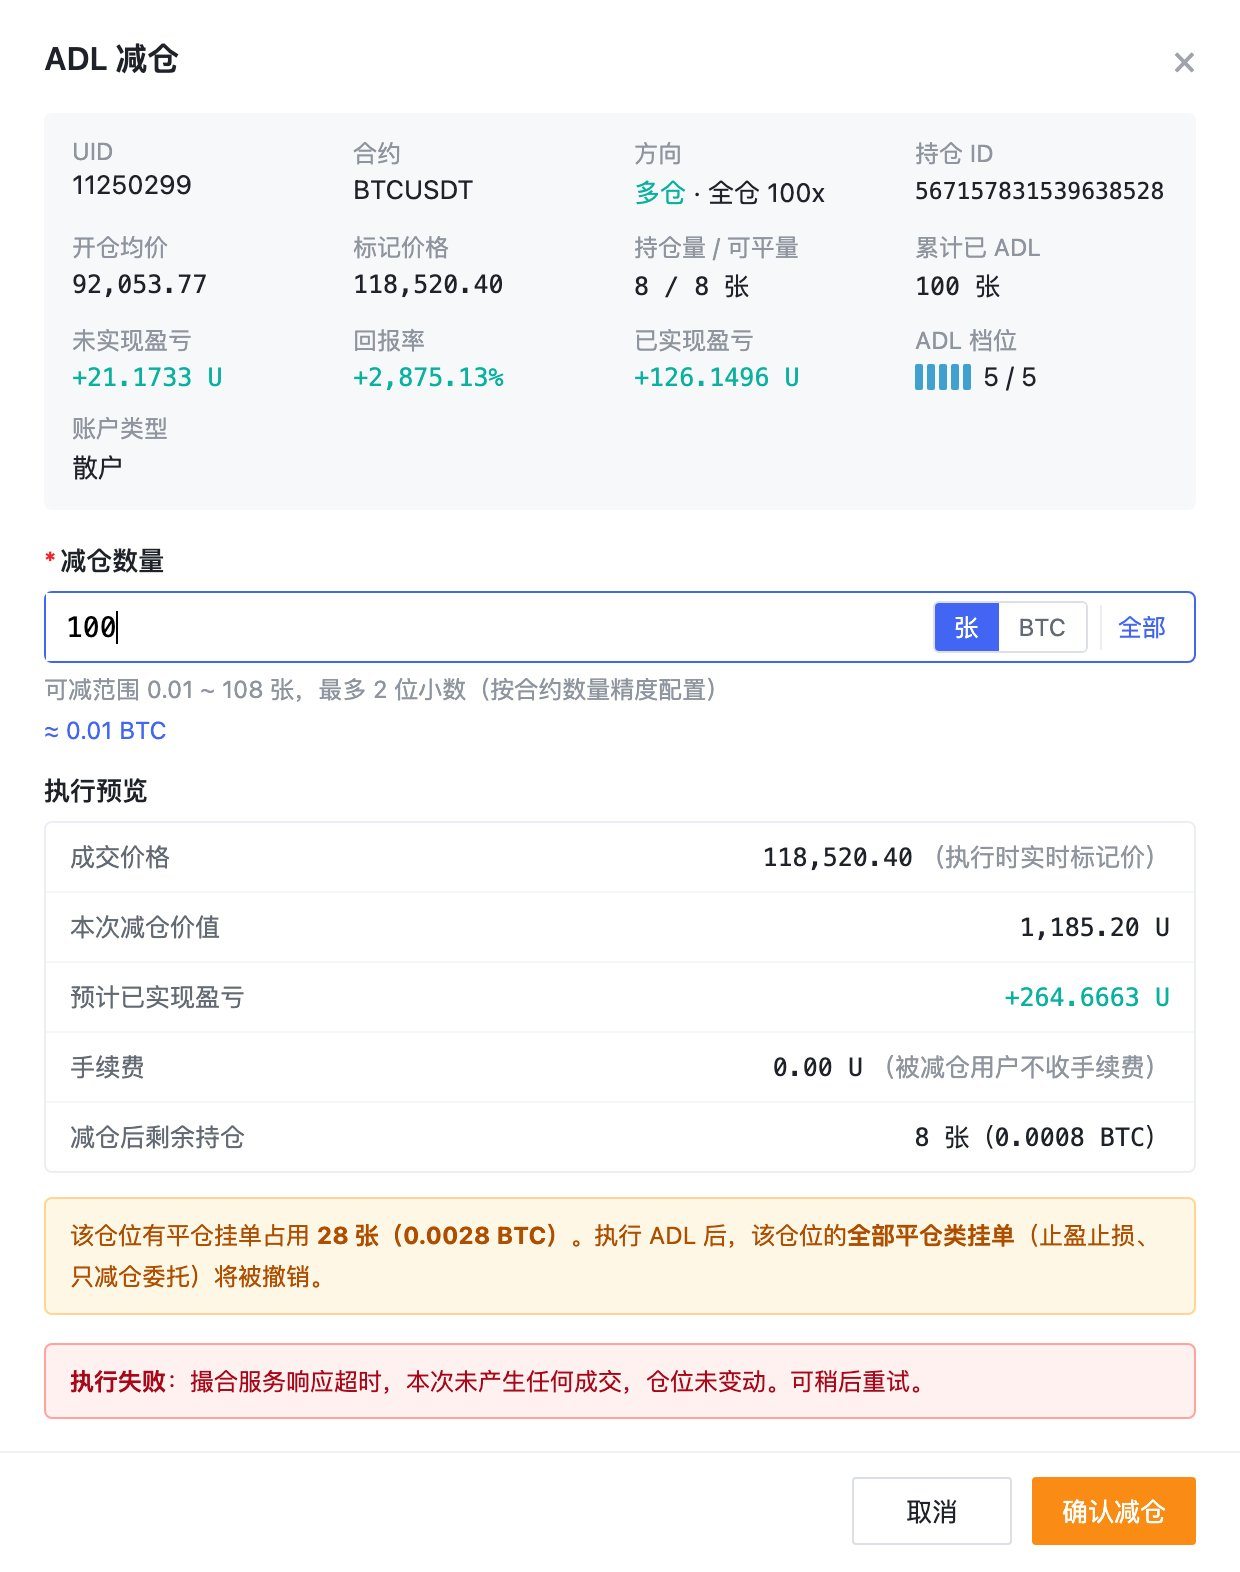
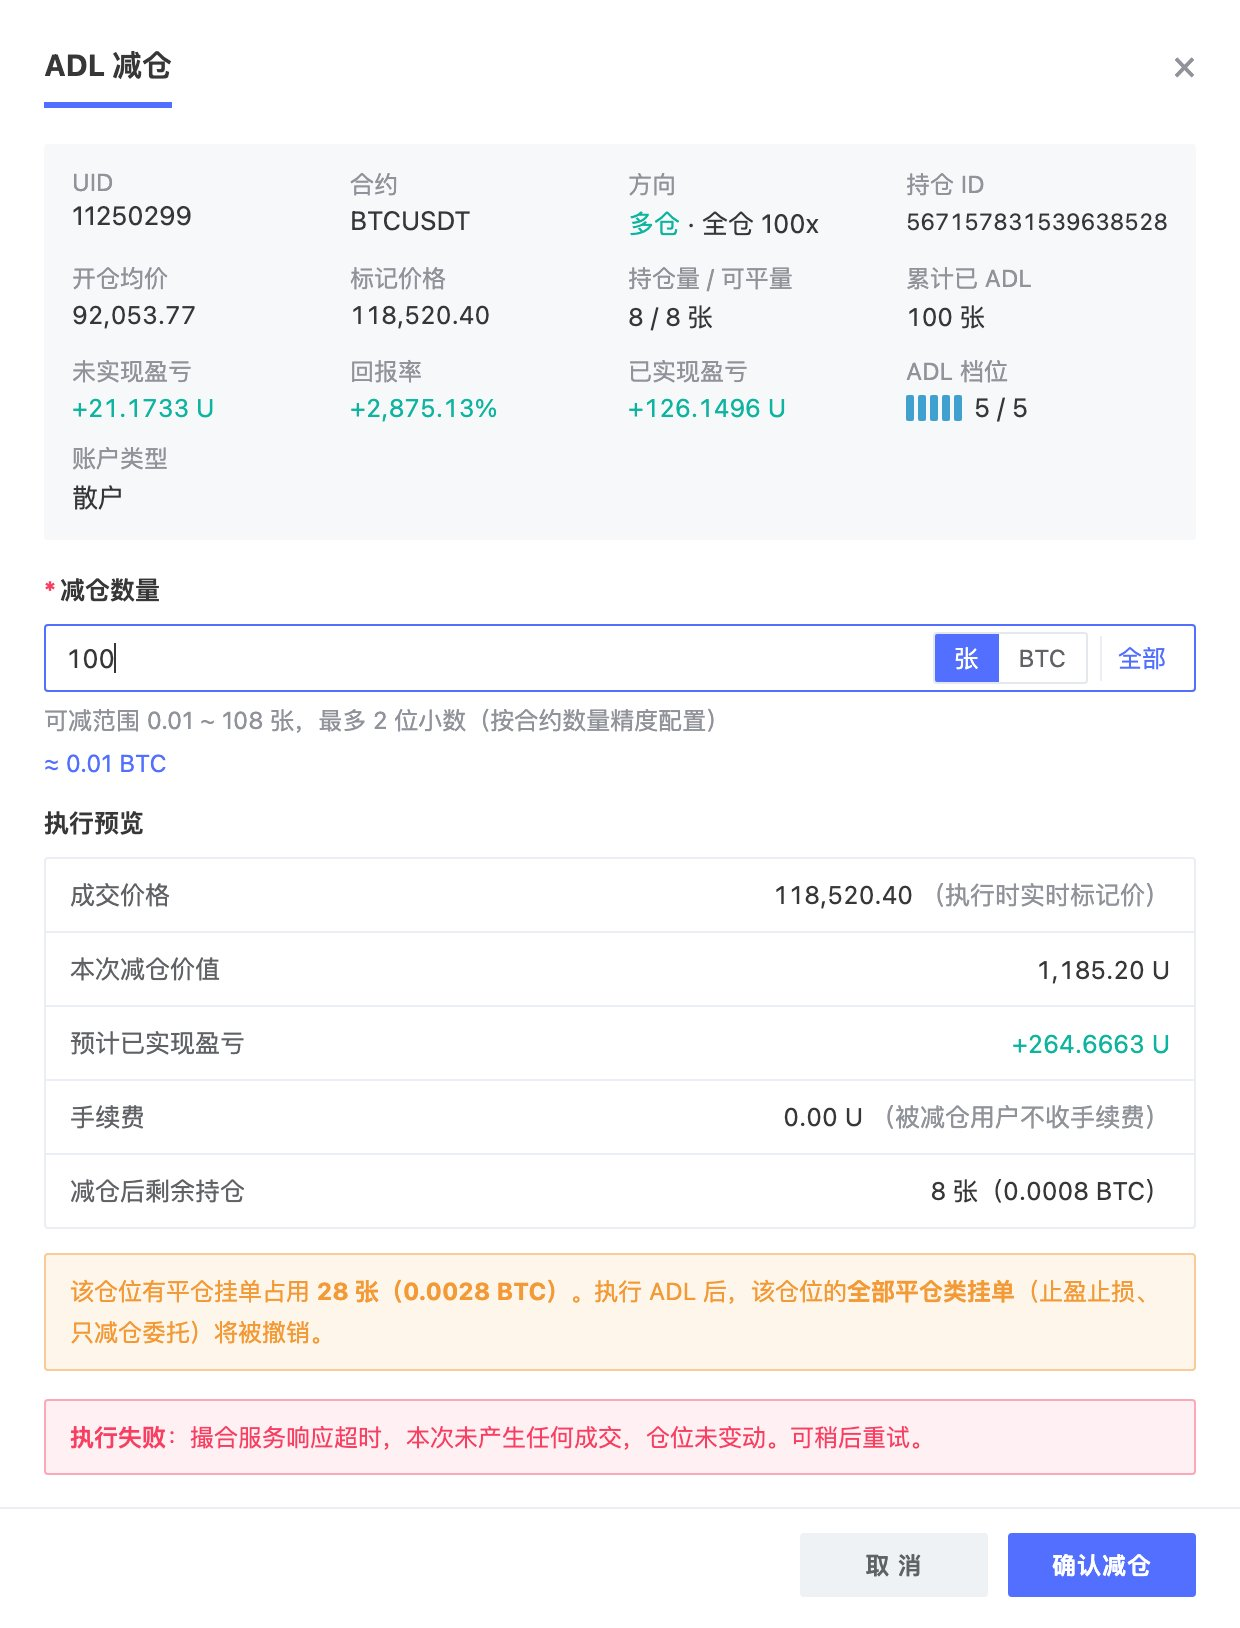
docs: 中台ADL减仓 PRD V1.5——补充中台样式规范,图1-6按新样式重截

diff --git a/中台ADL减仓_PRD_V1.0.html b/中台ADL减仓_PRD_V1.0.html
@@ -74,7 +74,7 @@
 
 <div class="cover">
   <h1>中台 ADL 减仓 PRD</h1>
-  <div class="ver">版本 V1.4 · 2026-10-11 · 修订人 Rhys</div>
+  <div class="ver">版本 V1.5 · 2026-10-11 · 修订人 Rhys</div>
   <div class="sub">需求类型：0→1 · 规模 L ｜ 配套原型：<a href="https://forclaudecode.vercel.app/1009-中台ADL减仓.html">1009-中台ADL减仓.html</a> ｜ 规则来源：规则台账_ADL减仓 v1.0（R01–R19）</div>
 </div>
 
@@ -243,7 +243,7 @@ flowchart LR
 
 <h3>3.3 原型及说明</h3>
 <p>原型地址：<a href="https://forclaudecode.vercel.app/1009-中台ADL减仓.html">1009-中台ADL减仓.html</a>（顶部可切换「中台」与「用户端 · App + Web」）。</p>
-<p><strong>颜色规范</strong>：涨 / 盈利为绿色（#0BB1A0），跌 / 亏损为紫色（#8A62DC），与中台和主站现有配色一致；ADL 指示灯点亮色与主站一致（#40A0D0）。组件样式与颜色最终以中台前端现有组件为准。</p>
+<p><strong>中台样式规范</strong>（取色自现有中台页面，浅色 / 深色两套主题）：主操作蓝 #526FFF（深色 #4961DB，用于「查询」「确认减仓」、链接、选中态、分页当前页、弹窗标题下划线）；「指标编辑」紫 #8E63DF；「导出」青绿 #0FB4A0；「平仓」/「确认执行」红 #F83F62（深色 #DE3356）；「重置」/「取消」/「返回修改」灰底（浅 #EEF2F5 / 深 #1F1F1F）。新增的「ADL减仓」按钮使用中台现有的橙色 #F39A37（与「张」单位同色），置灰态为 40% 透明度。涨 / 盈利 / 多仓为青绿 #0FB4A0，跌 / 亏损 / 空仓为紫 #8E63DF；ADL 指示灯点亮色 #40A0D0。页面框架沿用现有左侧导航、筛选区、表格与分页器。</p>
 
 <h4>3.3.1 中台 · 当前持仓列表</h4>
 <figure class="fig"><img src="中台ADL减仓_PRD_assets/01_admin_list.jpg" alt="图 1　当前持仓列表（已按「ADL 档位」降序；亮满 5 格且浮盈的仓位「ADL减仓」可点，第 5 行为亮满 5 格但浮亏，置灰）" loading="lazy"><figcaption>图 1　当前持仓列表（已按「ADL 档位」降序；亮满 5 格且浮盈的仓位「ADL减仓」可点，第 5 行为亮满 5 格但浮亏，置灰）</figcaption></figure>
@@ -435,6 +435,7 @@ flowchart LR
   <tr><td>V1.2</td><td>2026-10-11</td><td>初稿（评审前）</td><td>涨跌色改为中台 / 主站绿涨紫跌，ADL 指示灯改为主站色；减仓弹窗去掉「对手方」字段；输入数量后上方仓位信息联动为减仓后数据；截图全部重截</td><td>业务方（Yuushi）对弹窗的反馈</td></tr>
   <tr><td>V1.3</td><td>2026-10-11</td><td>初稿（评审前）</td><td>减仓弹窗删除标题标签与联动提示行；输入数量后直接显示减仓后数值，不再划线展示原值；持仓量 / 可平量、累计已 ADL 按列表所选单位显示；图 2、图 4 重截</td><td>PM 对弹窗的反馈</td></tr>
   <tr><td>V1.4</td><td>2026-10-11</td><td>初稿（评审前）</td><td>二次确认弹窗删除三条说明（不可撤销 / 用户端展示方式 / 操作人记录）；图 3 重截</td><td>PM 对二次确认弹窗的反馈</td></tr>
+  <tr><td>V1.5</td><td>2026-10-11</td><td>初稿（评审前）</td><td>中台原型按现有中台页面重做样式（左侧导航、按钮与文字取色、分页器、浅 / 深两套主题），补充「中台样式规范」；「确认减仓」改主色蓝、「确认执行」改平仓红；图 1–6 重截</td><td>PM 要求中台 UI 样式与按钮颜色全部对齐现有中台</td></tr>
 </table>
 
 </div></div>
